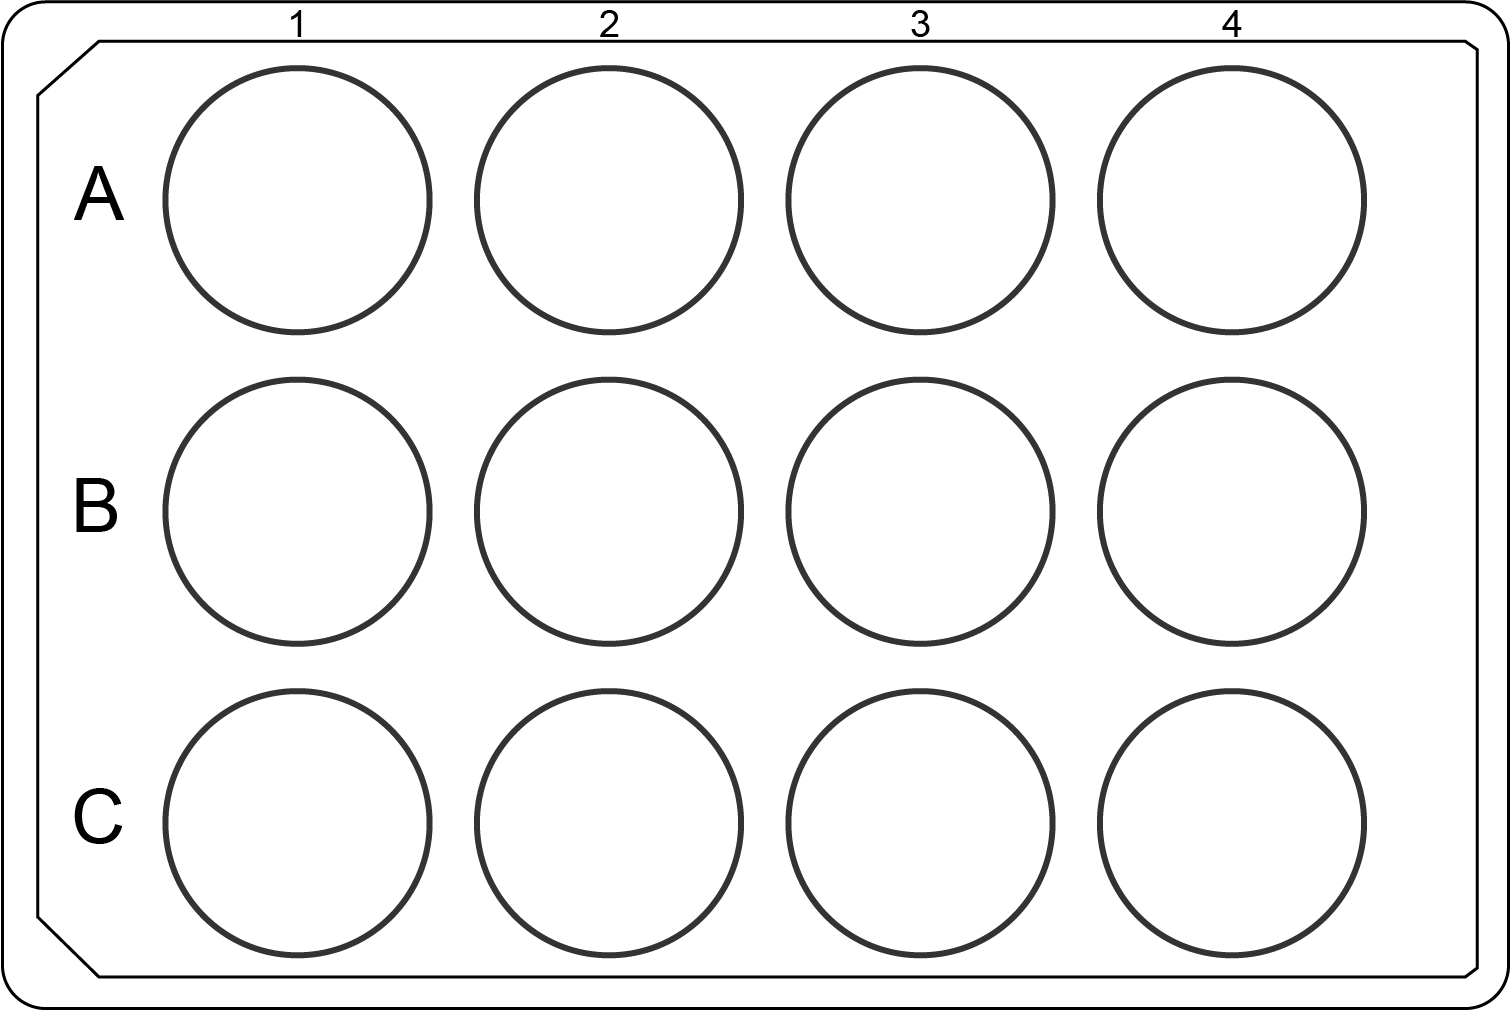
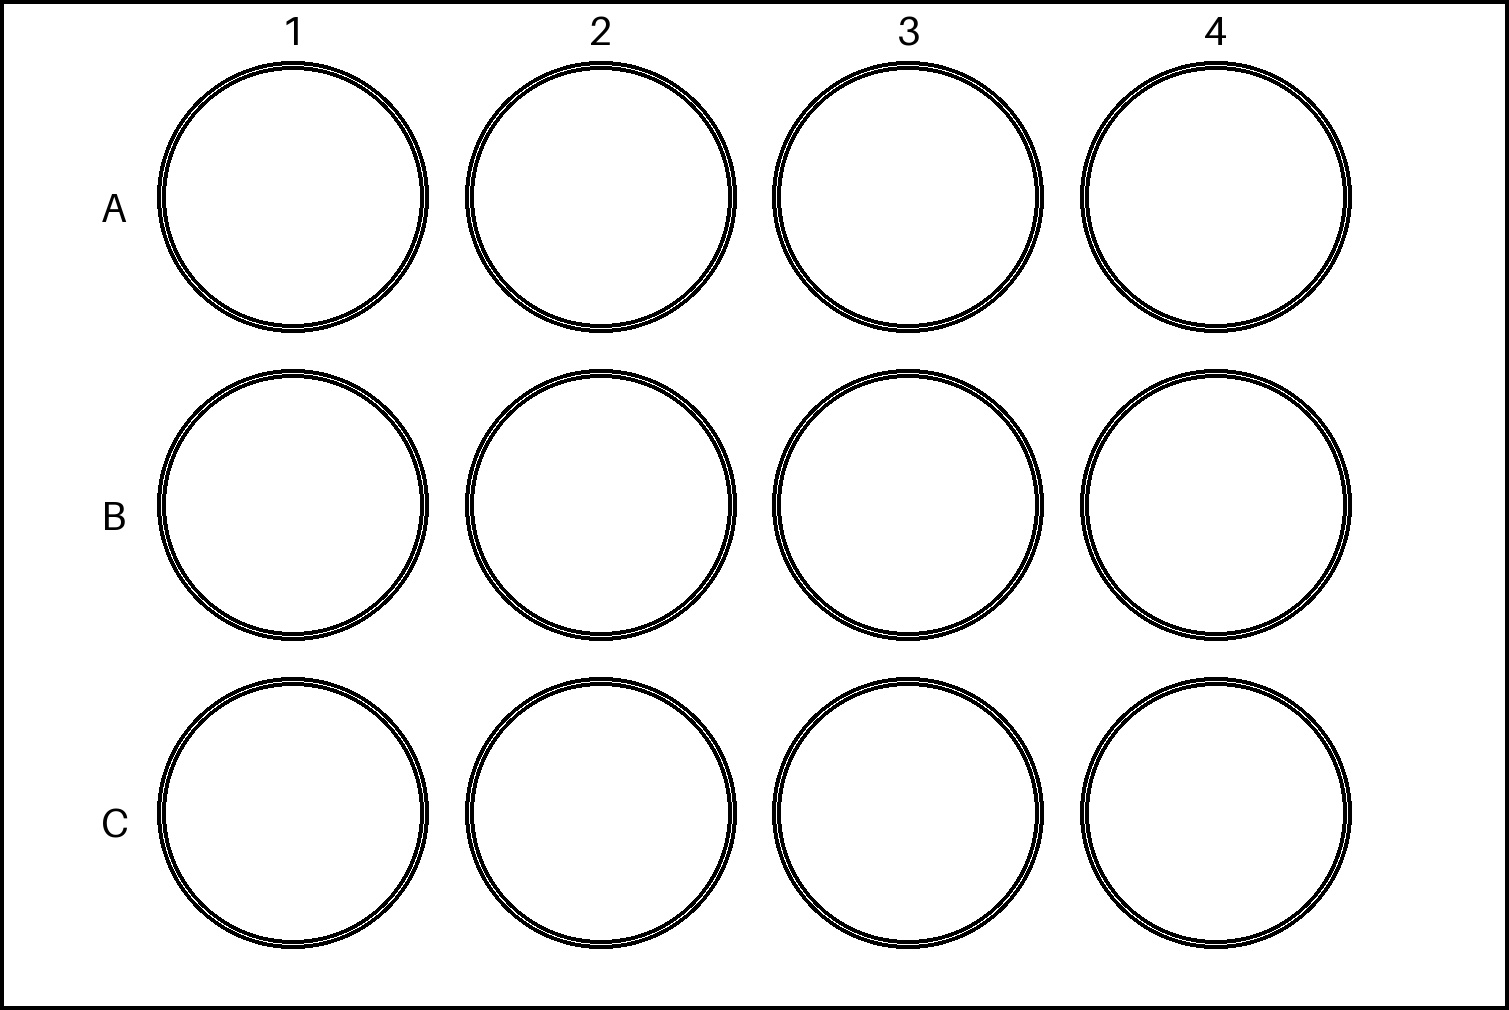
updated wellpate images, final PR fixes

diff --git a/software/control/core.py b/software/control/core.py
@@ -3541,6 +3541,7 @@ class NavigationViewer(QFrame):
     def load_background_image(self, sample):
         image_paths = {
             'glass slide': 'images/slide carrier_828x662.png',
+            '4 glass slide': 'images/4 slide carrier_1509x1010.png',
             '6 well plate': 'images/6 well plate_1509x1010.png',
             '12 well plate': 'images/12 well plate_1509x1010.png',
             '24 well plate': 'images/24 well plate_1509x1010.png',
@@ -3578,9 +3579,13 @@ class NavigationViewer(QFrame):
             self.mm_per_pixel = 0.1453
             self.origin_x_pixel = 200
             self.origin_y_pixel = 120
-            if IS_HCS:
-                self.view.invertX(True)
-                self.view.invertY(False)
+        elif sample == '4 glass slide':
+            self.location_update_threshold_mm = 0.2
+            self.mm_per_pixel = 0.084665
+            self.origin_x_pixel = 0
+            self.origin_y_pixel = 0
+            self.view.invertX(False)
+            self.view.invertY(True)
         else:
             self.location_update_threshold_mm = 0.05
             self.mm_per_pixel = 0.084665
@@ -3598,7 +3603,7 @@ class NavigationViewer(QFrame):
         self.clear_overlay()
         self.update_fov_size()
         if self.x_mm is not None and self.y_mm is not None:
-            if self.sample == 'glass slide':
+            if 'glass slide'in self.sample:
                 self.signal_draw_scan_grid.emit(self.x_mm, self.y_mm)
             self.draw_current_fov(self.x_mm, self.y_mm)
 
@@ -3607,9 +3612,13 @@ class NavigationViewer(QFrame):
 
     def update_wellplate_settings(self, sample_format, a1_x_mm, a1_y_mm, a1_x_pixel, a1_y_pixel, well_size_mm, well_spacing_mm, number_of_skip):
         if sample_format == 0:
-            sample = 'glass slide'
+            if  IS_HCS:
+                sample = '4 glass slide'
+            else:
+                sample = 'glass slide'
         else:
             sample = f'{sample_format} well plate'
+
         self.sample = sample
         self.a1_x_mm = a1_x_mm
         self.a1_y_mm = a1_y_mm
@@ -3634,36 +3643,35 @@ class NavigationViewer(QFrame):
                 self.x_mm = x_mm
                 self.y_mm = y_mm
                 # update_live_scan_grid
-                if self.sample == 'glass slide' and not self.acquisition_started:
+                if 'glass slide'in self.sample and not self.acquisition_started:
                     self.signal_draw_scan_grid.emit(x_mm, y_mm)
         else:
             self.draw_current_fov(x_mm, y_mm)
             self.x_mm = x_mm
             self.y_mm = y_mm
             # update_live_scan_grid
-            if self.sample == 'glass slide' and not self.acquisition_started:
+            if 'glass slide'in self.sample and not self.acquisition_started:
                 self.signal_draw_scan_grid.emit(x_mm, y_mm)
 
     def get_FOV_pixel_coordinates(self, x_mm, y_mm):
         if self.sample == 'glass slide':
-            if INVERTED_OBJECTIVE:
-                current_FOV_top_left = (
-                    round(self.image_width - (self.origin_x_pixel + x_mm/self.mm_per_pixel - self.fov_size_mm/2/self.mm_per_pixel)),
-                    round(self.image_height - (self.origin_y_pixel + y_mm/self.mm_per_pixel) - self.fov_size_mm/2/self.mm_per_pixel)
-                )
-                current_FOV_bottom_right = (
-                    round(self.image_width - (self.origin_x_pixel + x_mm/self.mm_per_pixel + self.fov_size_mm/2/self.mm_per_pixel)),
-                    round(self.image_height - (self.origin_y_pixel + y_mm/self.mm_per_pixel) + self.fov_size_mm/2/self.mm_per_pixel)
-                )
-            else:
-                current_FOV_top_left = (
-                    round(self.origin_x_pixel + x_mm/self.mm_per_pixel - self.fov_size_mm/2/self.mm_per_pixel),
-                    round(self.image_height - (self.origin_y_pixel + y_mm/self.mm_per_pixel) - self.fov_size_mm/2/self.mm_per_pixel)
-                )
-                current_FOV_bottom_right = (
-                    round(self.origin_x_pixel + x_mm/self.mm_per_pixel + self.fov_size_mm/2/self.mm_per_pixel),
-                    round(self.image_height - (self.origin_y_pixel + y_mm/self.mm_per_pixel) + self.fov_size_mm/2/self.mm_per_pixel)
-                )
+            current_FOV_top_left = (
+                round(self.origin_x_pixel + x_mm/self.mm_per_pixel - self.fov_size_mm/2/self.mm_per_pixel),
+                round(self.image_height - (self.origin_y_pixel + y_mm/self.mm_per_pixel) - self.fov_size_mm/2/self.mm_per_pixel)
+            )
+            current_FOV_bottom_right = (
+                round(self.origin_x_pixel + x_mm/self.mm_per_pixel + self.fov_size_mm/2/self.mm_per_pixel),
+                round(self.image_height - (self.origin_y_pixel + y_mm/self.mm_per_pixel) + self.fov_size_mm/2/self.mm_per_pixel)
+            )
+        # elif self.sample == '4 glass slide':
+        #     current_FOV_top_left = (
+        #         round(self.image_width - (self.origin_x_pixel + x_mm/self.mm_per_pixel - self.fov_size_mm/2/self.mm_per_pixel)),
+        #         round(self.image_height - (self.origin_y_pixel + y_mm/self.mm_per_pixel) - self.fov_size_mm/2/self.mm_per_pixel)
+        #     )
+        #     current_FOV_bottom_right = (
+        #         round(self.image_width - (self.origin_x_pixel + x_mm/self.mm_per_pixel + self.fov_size_mm/2/self.mm_per_pixel)),
+        #         round(self.image_height - (self.origin_y_pixel + y_mm/self.mm_per_pixel) + self.fov_size_mm/2/self.mm_per_pixel)
+        #     )
         else:
             current_FOV_top_left = (
                 round(self.origin_x_pixel + x_mm/self.mm_per_pixel - self.fov_size_mm/2/self.mm_per_pixel),

diff --git a/software/control/widgets.py b/software/control/widgets.py
@@ -3519,7 +3519,7 @@ class MultiPointWidgetGrid(QFrame):
 
     def set_default_scan_size(self):
         self.set_default_shape()
-        if self.navigationViewer.sample == 'glass slide':
+        if 'glass slide' in self.navigationViewer.sample:
             self.entry_scan_size.setEnabled(True)
             self.entry_well_coverage.setEnabled(False)
         else:
@@ -3545,7 +3545,7 @@ class MultiPointWidgetGrid(QFrame):
         self.update_well_coordinates()
 
     def update_coverage_from_scan_size(self):
-        if self.navigationViewer.sample != 'glass slide' and hasattr(self.navigationViewer, 'well_size_mm'):
+        if 'glass slide' not in self.navigationViewer.sample and hasattr(self.navigationViewer, 'well_size_mm'):
             effective_well_size = self.get_effective_well_size()
             scan_size = self.entry_scan_size.value()
             coverage = round((scan_size / effective_well_size) * 100, 2)
@@ -3893,7 +3893,7 @@ class MultiPointWidgetGrid(QFrame):
             QMessageBox.warning(self, "Warning", "Please choose base saving directory first")
             return
 
-        if not self.use_coordinate_acquisition and self.navigationViewer.sample != 'glass slide' and not self.well_selected:
+        if not self.use_coordinate_acquisition and 'glass slide' in self.navigationViewer.sample and not self.well_selected:
         #if self.navigationViewer.sample != 'glass slide' and self.well_selected == False:
             self.btn_startAcquisition.setChecked(False)
             msg = QMessageBox()
@@ -6304,16 +6304,16 @@ class LaserAutofocusControlWidget(QFrame):
 
         self.grid = QGridLayout()
 
-        self.grid.addWidget(self.btn_set_reference,0,0)
-        self.grid.addWidget(self.btn_measure_displacement,0,1,1,2)
-        self.grid.addWidget(self.btn_move_to_target,0,3,1,2)
+        self.grid.addWidget(self.btn_initialize,0,0,1,2)
+        self.grid.addWidget(self.btn_set_reference,0,2,1,2)
 
-        self.grid.addWidget(self.btn_initialize,1,0)
-        self.grid.addWidget(QLabel('Displacement (um)'),1,1)
-        self.grid.addWidget(self.label_displacement,1,2)
-        self.grid.addWidget(QLabel('Target (um)'),1,3)
-        self.grid.addWidget(self.entry_target,1,4)
+        self.grid.addWidget(QLabel('Displacement (um)'),1,0)
+        self.grid.addWidget(self.label_displacement,1,1)
+        self.grid.addWidget(self.btn_measure_displacement,1,2,1,2)
 
+        self.grid.addWidget(QLabel('Target (um)'),2,0)
+        self.grid.addWidget(self.entry_target,2,1)
+        self.grid.addWidget(self.btn_move_to_target,2,2,1,2)
         self.setLayout(self.grid)
 
         # make connections
@@ -6744,8 +6744,8 @@ class SampleSettingsWidget(QFrame):
         self.objectivesWidget = ObjectivesWidget
         self.wellplateFormatWidget = WellplateFormatWidget
         top_row_layout = QGridLayout()
-        top_row_layout.setSpacing(4)
-        top_row_layout.setContentsMargins(2, 2, 2, 2)
+        top_row_layout.setSpacing(2)
+        top_row_layout.setContentsMargins(0, 2, 0, 2)
         top_row_layout.addWidget(self.objectivesWidget,0,0)
         top_row_layout.addWidget(self.wellplateFormatWidget,0,1)
         self.setLayout(top_row_layout)  # Set the layout on the frame

diff --git a/software/control/gui_hcs.py b/software/control/gui_hcs.py
@@ -371,6 +371,7 @@ class OctopiGUI(QMainWindow):
         self.resizeCurrentTab(self.recordTabWidget)
 
         self.cameraTabWidget = QTabWidget()
+        self.cameraTabWidget.addTab(self.navigationWidget,"Stages")
         if ENABLE_OBJECTIVE_PIEZO:
             self.cameraTabWidget.addTab(self.piezoWidget,"Piezo")
         if ENABLE_NL5:
@@ -380,7 +381,6 @@ class OctopiGUI(QMainWindow):
         if USE_ZABER_EMISSION_FILTER_WHEEL or USE_OPTOSPIN_EMISSION_FILTER_WHEEL:
             self.cameraTabWidget.addTab(self.filterControllerWidget,"Emission Filter")
         self.cameraTabWidget.addTab(self.cameraSettingWidget,'Camera')
-        self.cameraTabWidget.addTab(self.navigationWidget,"Stages")
         self.cameraTabWidget.addTab(self.autofocusWidget,"Contrast AF")
         self.cameraTabWidget.currentChanged.connect(lambda: self.resizeCurrentTab(self.cameraTabWidget))
         self.resizeCurrentTab(self.cameraTabWidget)
@@ -404,8 +404,9 @@ class OctopiGUI(QMainWindow):
         if ENABLE_STITCHER:
             layout.addWidget(self.stitcherWidget)
             self.stitcherWidget.hide()
+        layout.addWidget(self.sampleSettingsWidget) # at bottom above viewer
         layout.addWidget(self.navigationViewer)
-        layout.addWidget(self.sampleSettingsWidget) # at bottom
+        # layout.addWidget(self.sampleSettingsWidget) # at bottom
 
         # transfer the layout to the central widget
         self.centralWidget = QWidget()

diff --git a/software/control/_def.py b/software/control/_def.py
@@ -593,7 +593,7 @@ WELLPLATE_FORMAT_SETTINGS = {
         'a1_x_mm': 24.55,
         'a1_y_mm': 23.01,
         'a1_x_pixel': 290,
-        'a1_y_pixel': 273,
+        'a1_y_pixel': 272,
         'well_size_mm': 34.94,
         'well_spacing_mm': 39.2, # 39.2
         'number_of_skip': 0,
@@ -603,8 +603,8 @@ WELLPLATE_FORMAT_SETTINGS = {
     12: {
         'a1_x_mm': 24.75,
         'a1_y_mm': 16.86,
-        'a1_x_pixel': 299,
-        'a1_y_pixel': 200,
+        'a1_x_pixel': 293,
+        'a1_y_pixel': 198,
         'well_size_mm': 22.05,
         'well_spacing_mm': 26,
         'number_of_skip': 0,
